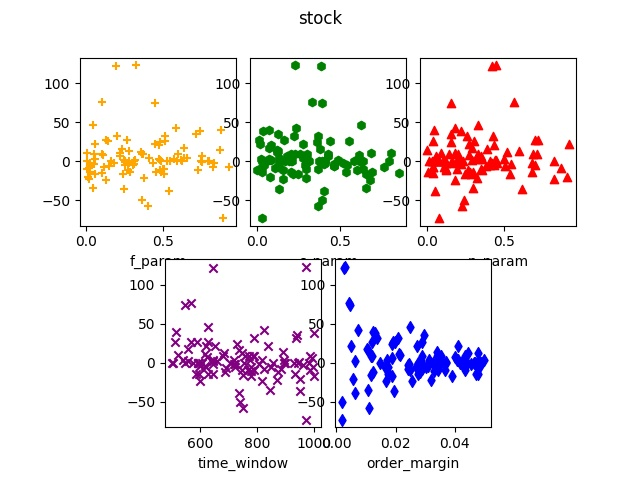
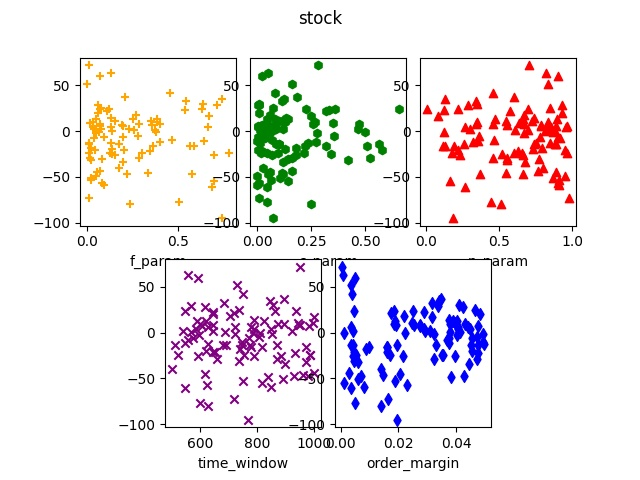
making etf visualization

diff --git a/mains/compare_losses.py b/mains/compare_losses.py
@@ -5,7 +5,7 @@ from numpy.random import RandomState
 from analysis.market_analyzer import MarketVisualizer
 from analysis.loss_function import compute_total_loss
 from market.exchange import Exchange
-from market.simulator import RandomSimulator
+from market.simulator import RandomSimulator, SimulatorPaper1, SimulatorFCN
 from analysis.simulation_visualizer import VisualizeSimulation
 
 if not os.path.exists("../results/compare_losses/"):
@@ -64,6 +64,38 @@ print(f"Total Loss wrt SPX: {total_loss}")
 
 # Exponential Simulator
 
+exchange = Exchange()
+simulator_paper_1 = SimulatorPaper1(exchange, 10000, 10000, 10000000, 1000)
+simulator_paper_1.run(200000 * 60, 600, 5, 0.005, 1, 2000)
+
+price_df = pd.Series(simulator_paper_1.mid_price_series.price, index=simulator_paper_1.mid_price_series.time_step)
+long_price_df = pd.Series(index=np.arange(0, simulator_paper_1.mid_price_series.time_step[-1] + 1), dtype=np.float64)
+long_price_df.loc[price_df.index] = price_df.values
+long_price_df = long_price_df.ffill().dropna()
+minute_price_df = long_price_df.loc[::60]
+
+simulated_market_visualizer = MarketVisualizer(minute_price_df.values, is_simulated=True)
+
+real_market_visualizer.compare_market("1d", simulated_market_visualizer,
+                                      '../results/compare_losses/facts_comparison.jpg')
+
+total_loss = compute_total_loss(minute_price_df.values, "ExponentialSimulator")
+print(f"Total Loss wrt SPX: {total_loss}")
+
+
 # FCN Simulator
+
+exchange = Exchange()
+simulator_fcn = SimulatorFCN(exchange, 100, 500, 0.001, scale_fund=0.2, scale_chart=0.1, scale_noise=0.7,
+                             fund_price_trend=0, random_seed=101)
+simulator_fcn.run(200000, 10, 5, 20)
+
+simulated_market_visualizer = MarketVisualizer(simulator_fcn.last_mid_price_series.price, is_simulated=True)
+
+real_market_visualizer.compare_market("1d", simulated_market_visualizer,
+                                      '../results/compare_losses/fcn_stats.jpg')
+
+total_loss = compute_total_loss(simulator_fcn.last_mid_price_series.price, "SimulatorFCN")
+print(f"Total Loss wrt SPX: {total_loss}")
 
 # FCN Gamma Simulator

diff --git a/mains/visualize_fcn.py b/mains/visualize_fcn.py
@@ -9,7 +9,7 @@ if __name__ == "__main__":
         os.makedirs('../results/visualize_fcn/')
 
     exchange = Exchange()
-    simulator_fcn = SimulatorFCN(exchange, 100, 500, 0.001)
+    simulator_fcn = SimulatorFCN(exchange, 100, 500, 0.001, scale_fund=0.2, scale_chart=0.1, scale_noise=0.7)
     simulator_fcn.run(1000, 10, 5, 20)
     visualizer = VisualizeSimulationFCN(simulator_fcn)
     visualizer.plot_order_book()
@@ -30,7 +30,7 @@ if __name__ == "__main__":
     from market.exchange import Exchange
 
     exchange = Exchange()
-    simulator_fcn = SimulatorFCN(exchange, 100, 500, 0.001)
+    simulator_fcn = SimulatorFCN(exchange, 100, 500, 0.001, scale_fund=0.2, scale_chart=0.1, scale_noise=0.7)
     simulator_fcn.run(10000, 5, 5, 20)
     visualizer = VisualizeSimulationFCN(simulator_fcn)
     visualizer.plot_order_book()

diff --git a/mains/visualize_leveraged_etf.py b/mains/visualize_leveraged_etf.py
@@ -1,0 +1,22 @@
+import numpy as np
+import pandas as pd
+from numpy.random import RandomState
+
+leverage = 2
+vol = 0.2
+trend = 0
+starting_price = 1
+T = 252
+n_steps = 252 * 4
+random_state = RandomState(1001)
+gauss = random_state.normal(size=(n_steps, ))
+gbm = np.exp(trend / T + np.sqrt(1 / T) * vol * gauss - 0.5 / T * vol ** 2)
+
+year = np.arange(0, n_steps + 1 ) / 252
+cols = ['Underlying Price', 'Underlying Return', 'Target ETF Price', 'Target ETF Return',
+        'Exposure Position', 'Shares Held', 'Rebalancing', 'ETF Replicated']
+
+leveraged_etf_info = pd.DataFrame(index = year, columns=)
+
+
+

diff --git a/mains/bayesian_optimization_training.py b/mains/bayesian_optimization_training.py
@@ -24,7 +24,7 @@ if __name__ == "__main__":
     res = use_bayesian_optimization([(-np.pi, np.pi),
                                      (0, np.pi)],
                                     acq_func="EI",
-                                    n_calls=100,
+                                    n_calls=200,
                                     n_random_starts=60,
                                     noise="gaussian",
                                     random_state=4242,

diff --git a/mains/paper_1_replication.py b/mains/paper_1_replication.py
@@ -12,7 +12,7 @@ if not os.path.exists("../results/paper_1_replication/"):
 
 exchange = Exchange()
 simulator_paper_1 = SimulatorPaper1(exchange, 10000, 10000, 10000000, 1000)
-simulator_paper_1.run(25200 * 10, 600, 5, 0.005, 1, 2000)
+simulator_paper_1.run(25200 * 20, 600, 20, 0.005, 1, 2000)
 visualizer = VisualizeSimulation(simulator_paper_1)
 visualizer.plot_order_book()
 visualizer.plot_save_and_show("../results/paper_1_replication/paper1_lbo_heatmap.jpg")

diff --git a/mains/compute_benchmark_gbm_loss.py b/mains/compute_benchmark_gbm_loss.py
@@ -31,7 +31,7 @@ show_samples = False
 
 random_state = RandomState(random_seed)
 gauss = random_state.normal(size=(n_steps, n_series))
-gbm = np.exp(trend / T + np.sqrt(1 / T) * vol * gauss)
+gbm = np.exp(trend / T + np.sqrt(1 / T) * vol * gauss - 0.5 / T * vol ** 2)
 gbm = starting_price * gbm.cumprod(axis=0)
 
 simulated_market_visualizer = MarketVisualizer(gbm[:, 0], is_simulated=True)

diff --git a/analysis/optimizer.py b/analysis/optimizer.py
@@ -43,7 +43,7 @@ def simulate_market(params):
     fund_price_trend = 0
     random_seed_simulation = np.random.randint(0, 1e6)  # 42
 
-    n_steps = 10000
+    n_steps = 20000
     trades_per_step = 2
     snapshot_interval = 5
     cancel_order_interval = 20

diff --git a/analysis/loss_function.py b/analysis/loss_function.py
@@ -161,6 +161,10 @@ def compute_total_loss(price_series, name_simulator: str):
     plt.grid(True)
     plt.show()
 
+    print(name_simulator)
+    print(labels)
+    print(t_losses)
+
     return final_loss
 
 
